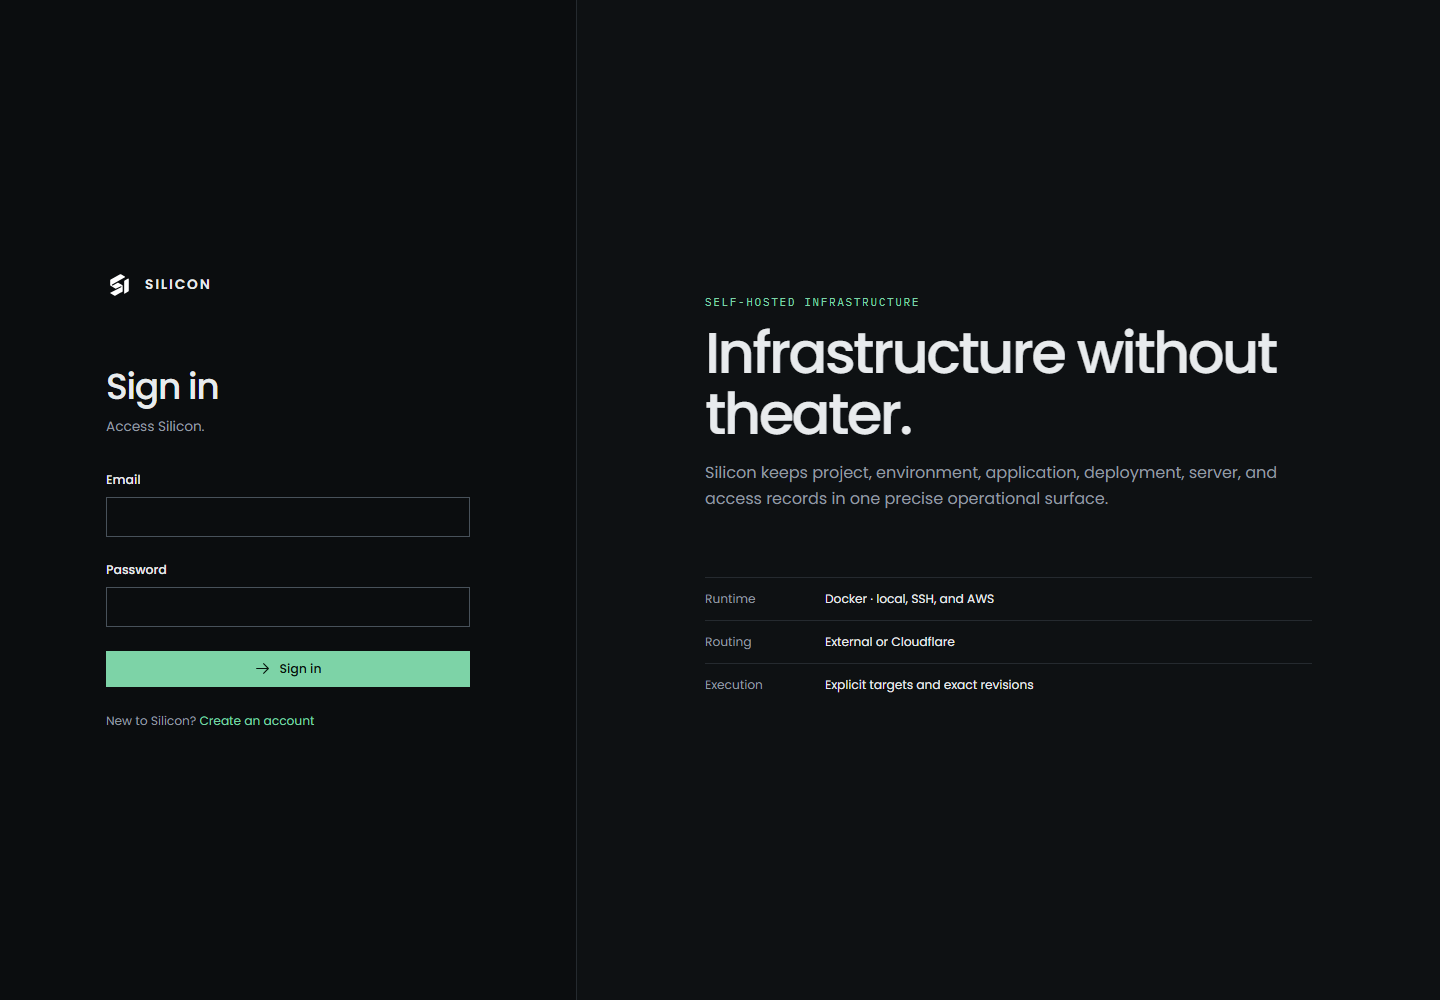
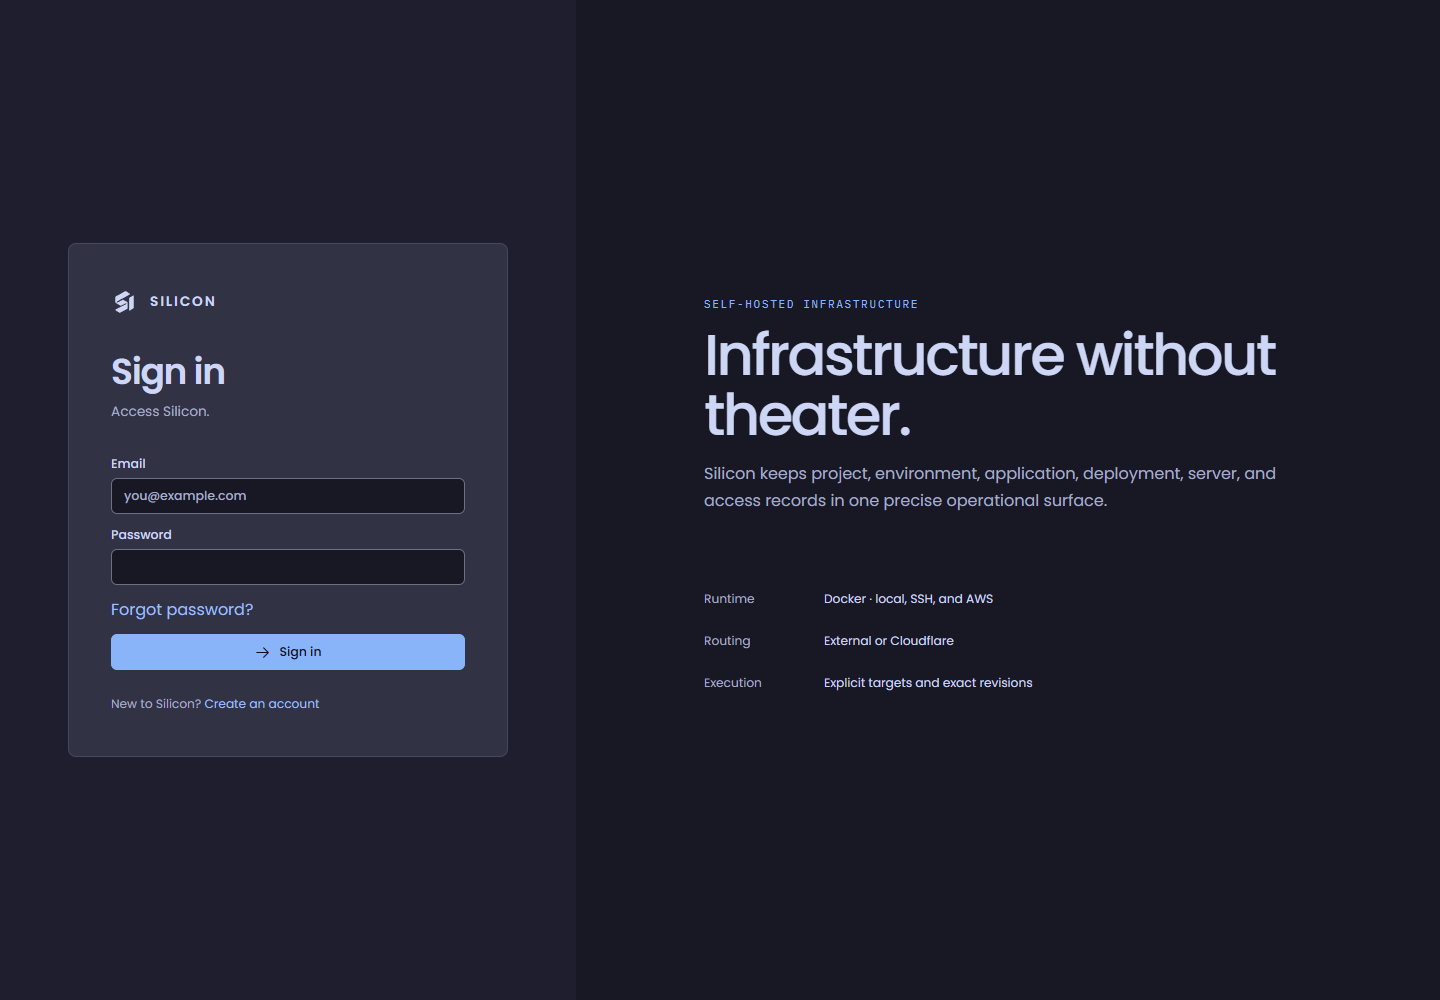
Explain incorrect saved login suggestions

diff --git a/docs/getting-started/first-login.md b/docs/getting-started/first-login.md
@@ -6,6 +6,8 @@ Open the URL printed by the installer and choose **Register**. The first account
 
 ![Silicon registration page](/img/screenshots/register.png)
 
+If your browser suggests an application secret when you sign in, remove that saved entry for your Silicon site in the browser’s password manager. Sign in with your Silicon account email and password.
+
 ## Create an organization
 
 After registration, create the first organization from the empty dashboard. The creator becomes that organization's Owner. An organization is Silicon's tenant and security boundary: projects, applications, servers, domains, networks, provider connections, secrets, budgets, jobs, and audit events belong to it.
